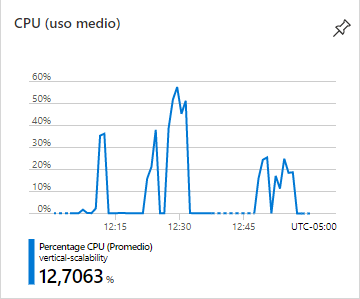
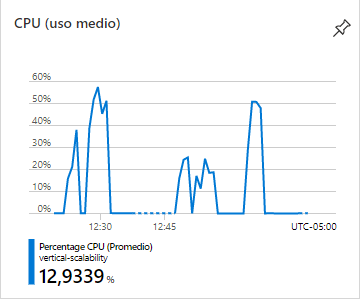
8

Changed region(s): [[0.3667, 0.2709, 0.8556, 0.7826], [0.1528, 0.2709, 0.3667, 0.7826], [0.1528, 0.903, 0.3361, 0.9632]]

diff --git a/README.md b/README.md
@@ -116,6 +116,7 @@ El tiempo promedio de respuesta es de 24,091 segundos
     * 1090000
 	![](images/1090000.png)
 	* Uso de CPU:
+	
 	![](images/useofcpu2.png)
 	
 	**Prueba II**: Carga concurrente. Siguen habiendo errores en algunas peticiones, pero el tiempo en que se atienden de disminuyó.
@@ -125,13 +126,14 @@ El tiempo promedio de respuesta es de 24,091 segundos
 	![](images/newmanresults2-2.png)
 	
 	* Uso de CPU:
+	
 	![](images/useofcpuconcurrent2.png)
 	
 13. Evaluación del escenario de calidad asociado al requerimiento no funcional de escalabilidad:
 
 Implementando esta estrategia de Escalamiento Vertical, se logró una disminución significativa, de al rededor 4 segundos, en los tiempos en que se atienden las peticiones no concurrentes, el tiempo
-pasó de 24,091 a 20,627 segundos. Mientras que realizando peticiones concurrentes no se logró de todo un mejoramiento en el requisito no funcional de escalabilidad, aunque el tiempo en que se atendieron bajó
-de 4m 19s a 3m 28s sigue habiendo errores en estas peticiones.
+pasó de 24,091 a 20,627 segundos. Mientras que realizando peticiones concurrentes no se logró del todo un mejoramiento en el requisito no funcional de escalabilidad, aunque el tiempo en que se atendieron bajó
+de 4m 19s a 3m 28s y el consumo de CPU es notablemente más bajo en ambos casos, como se ve en las imágenes, sigue habiendo errores en estas peticiones.
 
 **Preguntas**
 
